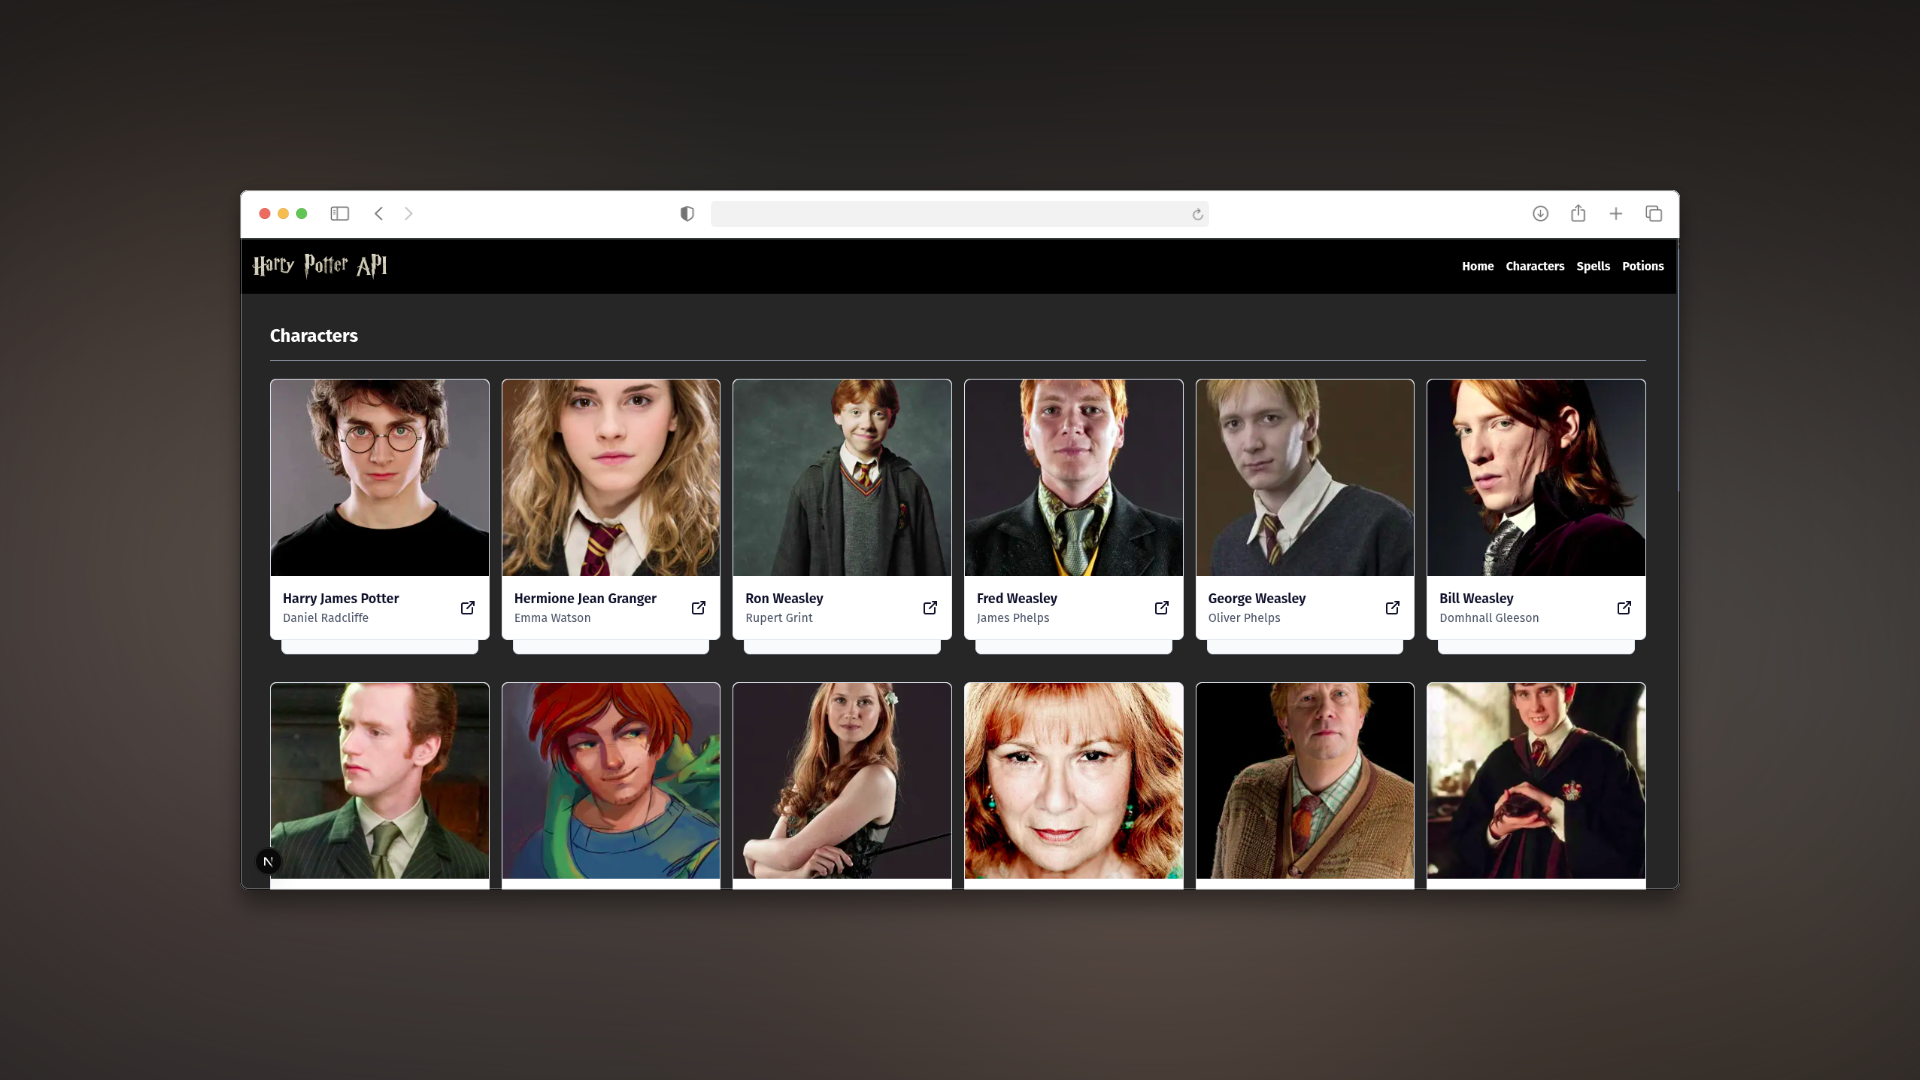
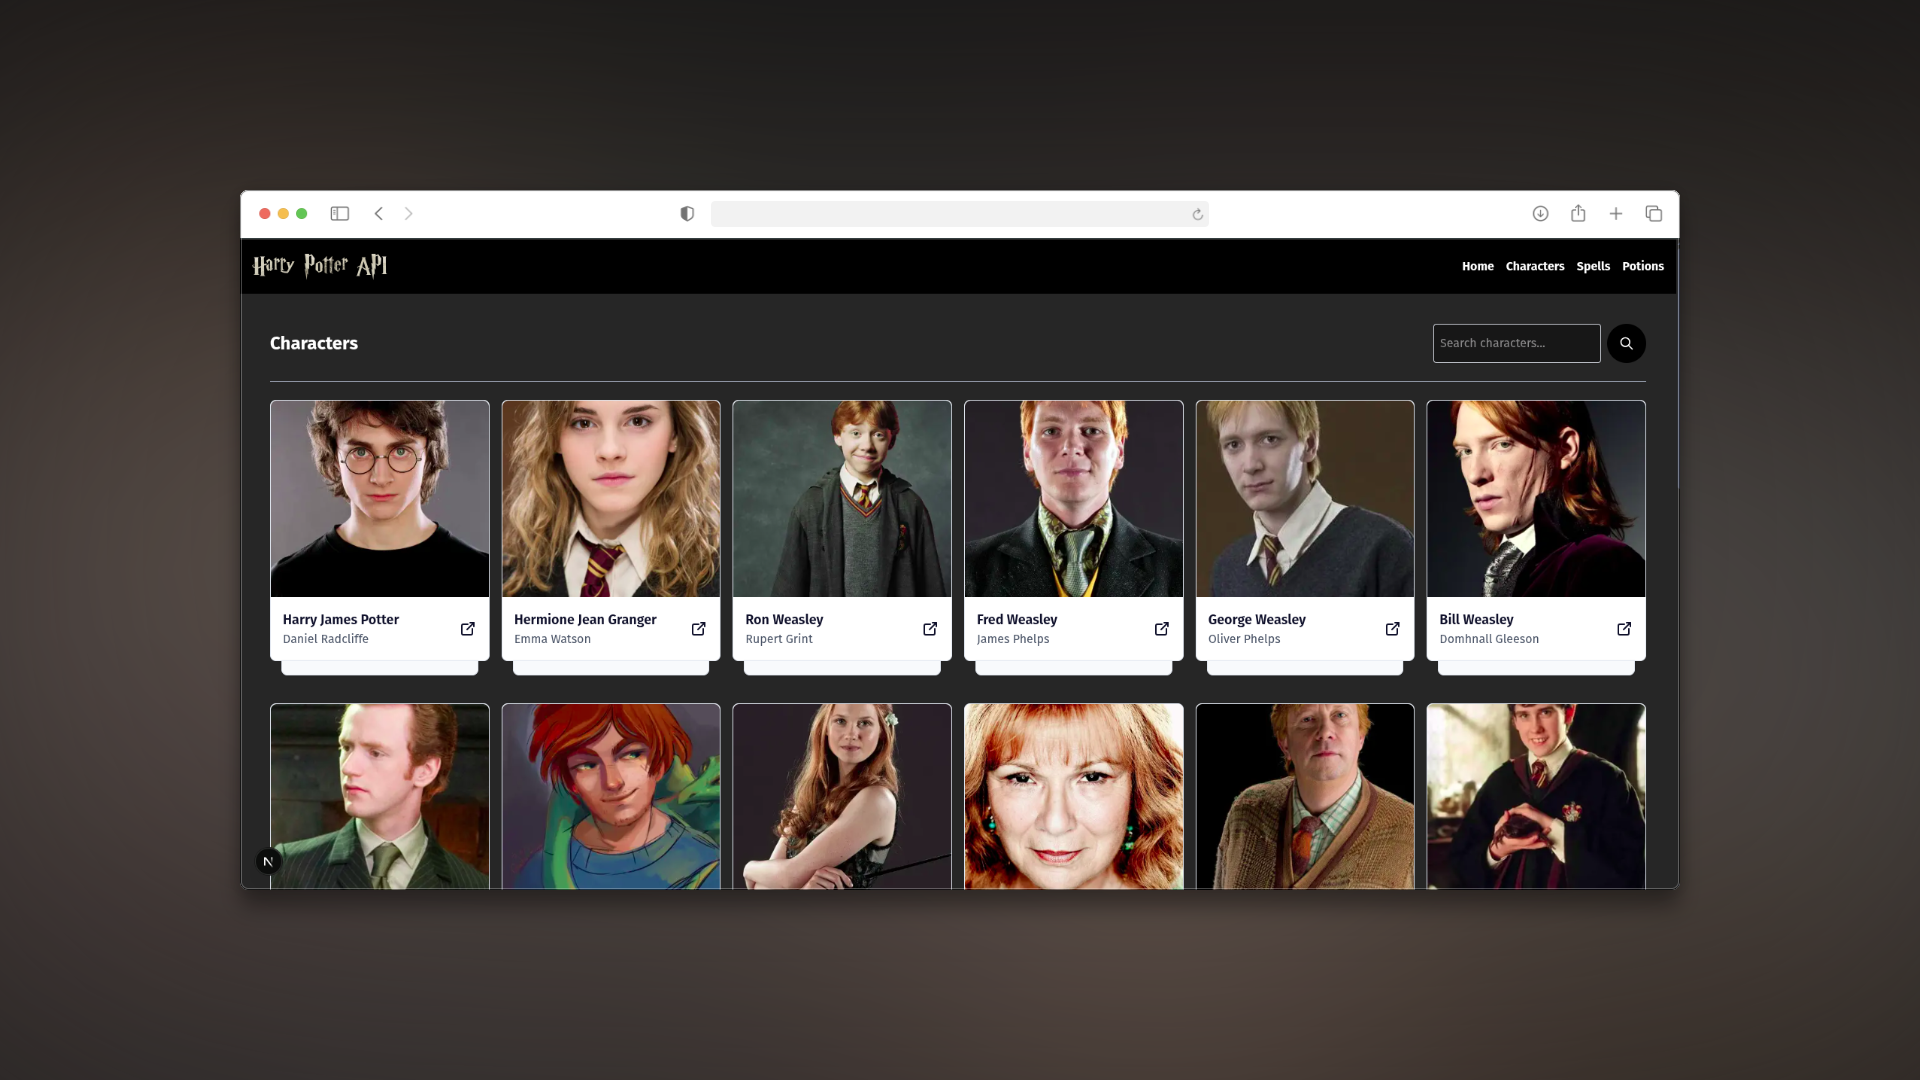
✨ feat: Implement character search functionality and update character fetching

Changed region(s): [[0.125, 0.3056, 0.875, 0.825]]

diff --git a/src/app/page.tsx b/src/app/page.tsx
@@ -1,25 +1,22 @@
 import { getAllCharacters } from "@/actions/character.action";
 import CardView from "@/components/CardView";
+import Search from "@/components/Search";
 
-export default async function HomePage() {
-
-  const characters = await getAllCharacters();
-
+export default async function HomePage({
+  searchParams,
+}: {
+  searchParams: { search?: string };
+}) {
+  const { search } = await searchParams;
+  const characters = await getAllCharacters(search);
 
   return (
     <div className="p-10 overflow-hidden">
-      <div className="flex justify-between items-center">
-        <h1
-          className="text-2xl font-bold mb-4"
-        >
-          Characters
-        </h1>
-        {/*   <input
-          type="text"
-          placeholder="Search characters..."
-          className="mt-2 p-2 border border-gray-300 rounded"
-        /> */}
+      <div className="flex flex-wrap gap-2 justify-between items-center">
+        <h1 className="text-2xl font-bold">Characters</h1>
+          <Search />
       </div>
+      <br />
       <hr className="border-gray-400" />
       <br />
 

diff --git a/src/components/Search.tsx b/src/components/Search.tsx
@@ -1,0 +1,32 @@
+"use client";
+import { IconSearch } from "@tabler/icons-react";
+import { useState } from "react";
+import { useRouter } from "next/navigation";
+
+
+export default function Search() {
+  const [searchTerm, setSearchTerm] = useState("");
+  const router = useRouter();
+
+  const handleSearch = () => {
+    router.push(`/?search=${searchTerm}`);
+  };
+  return (
+    <div className="flex gap-2">
+      <input
+        value={searchTerm}
+        onChange={(e) => setSearchTerm(e.target.value)}
+        type="text"
+        placeholder="Search characters..."
+        className=" p-2 border border-gray-300 rounded bg-black/40 shadow"
+      />
+
+      <button
+        onClick={handleSearch}
+        className="p-4 bg-black text-white rounded-full flex items-center gap-2 cursor-pointer"
+      >
+        <IconSearch size={20} />
+      </button>
+    </div>
+  );
+}

diff --git a/src/actions/character.action.ts b/src/actions/character.action.ts
@@ -5,8 +5,8 @@ import { Character } from "@/interfaces/Character";
 const API_URL = "https://potterapi-fedeperin.vercel.app/es";
 
 
-export const getAllCharacters = async (): Promise<Character[]> => {
-  const response = await fetch(`${API_URL}/characters`);
+export const getAllCharacters = async (search?: string): Promise<Character[]> => {
+  const response = await fetch(`${API_URL}/characters?search=${search || ""}`);
   return response.json();
 };
 
